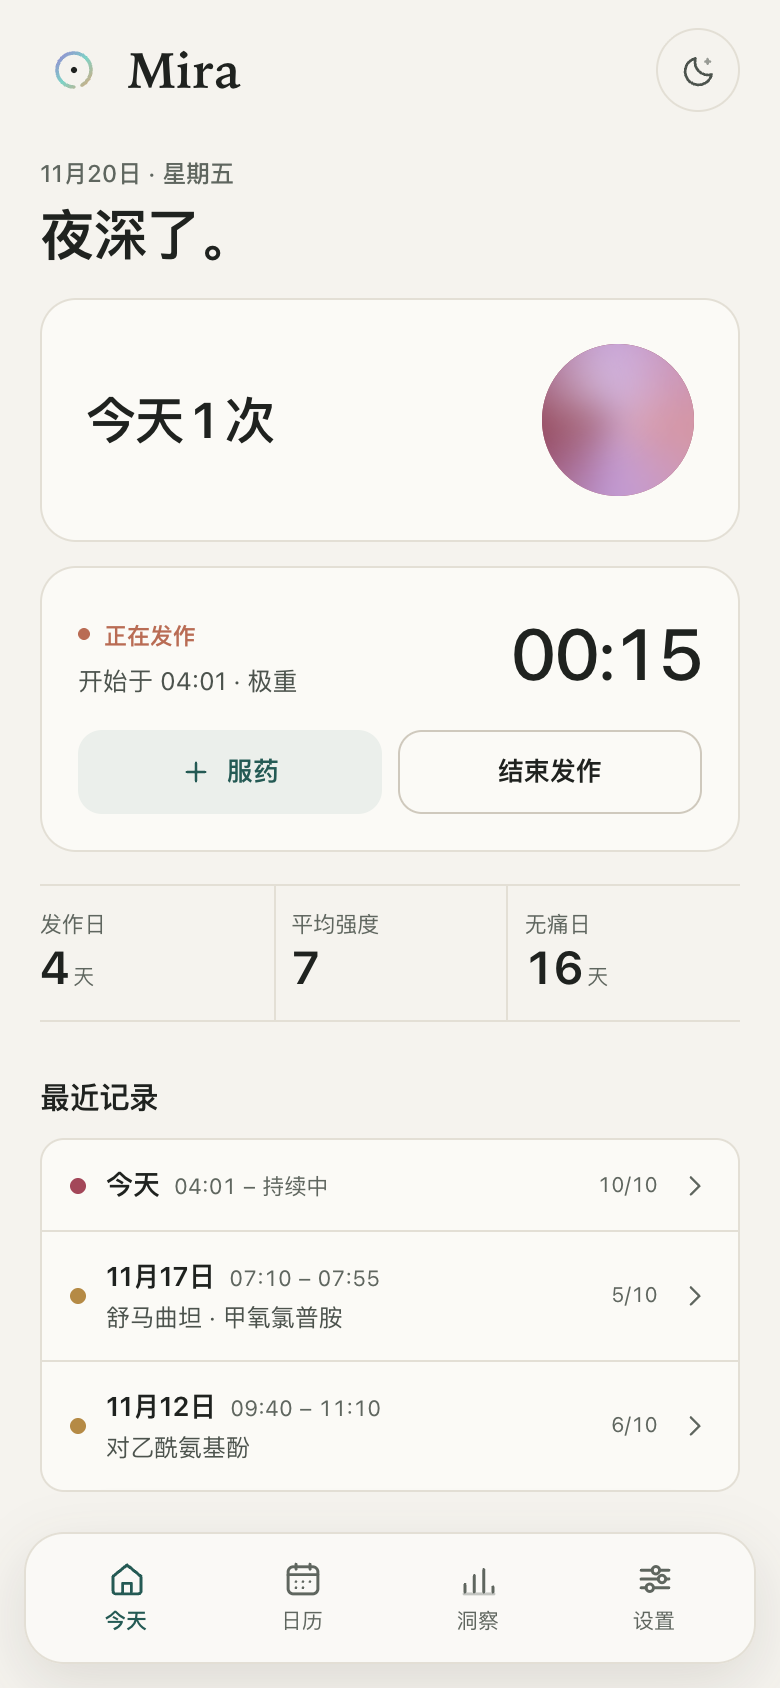
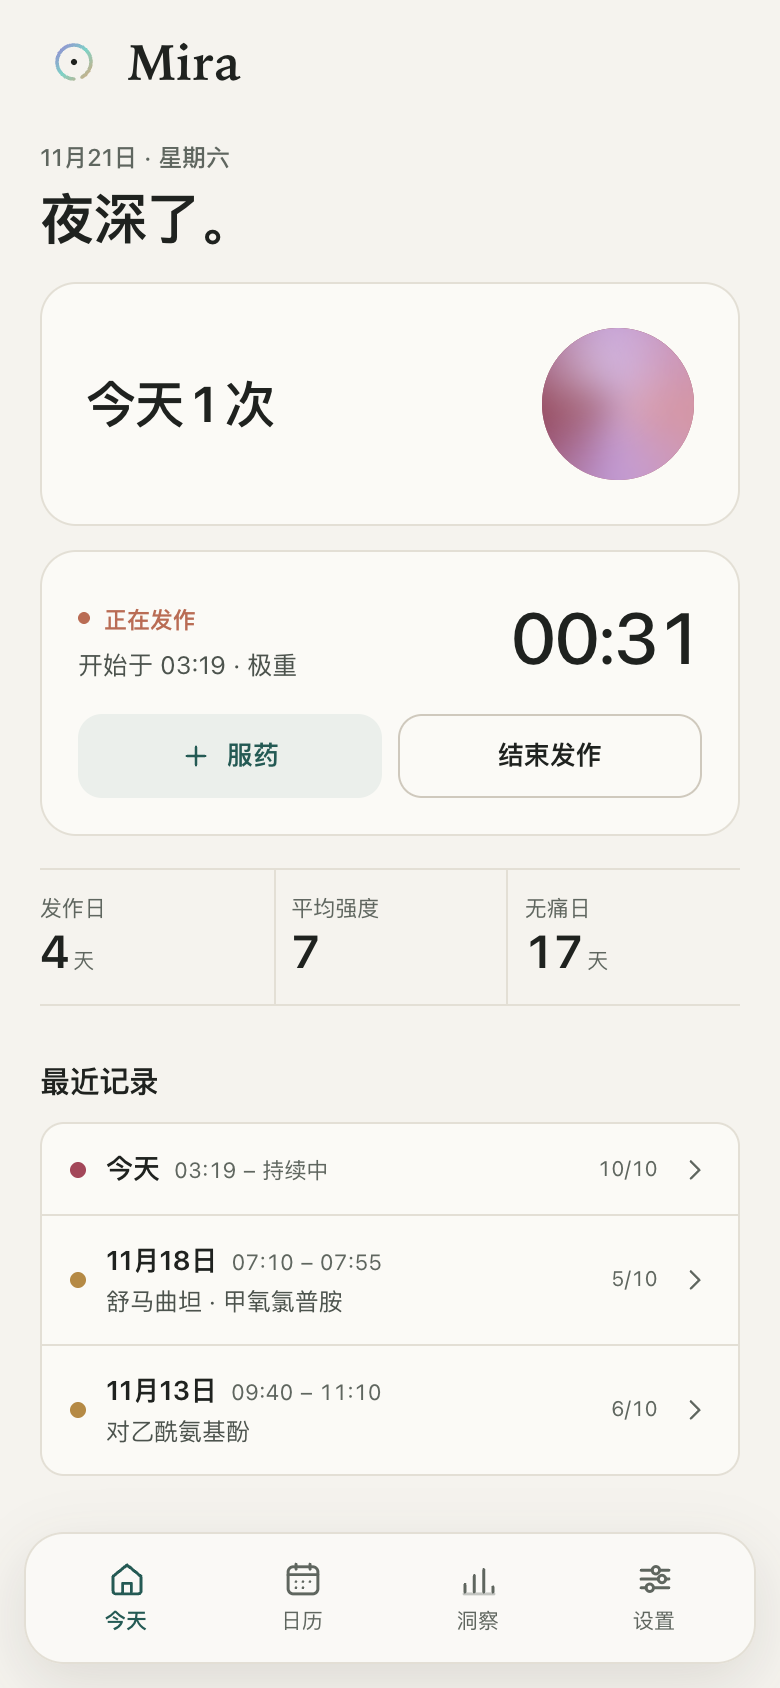
fix: remove the header quiet-mode toggle
- quiet mode now lives only in Settings, avoiding confusion with light/dark theme
- keep the top quiet banner as the way to exit during an attack
- update E2E, accessibility checks, screenshots and docs

diff --git a/src/app.tsx b/src/app.tsx
@@ -1,7 +1,7 @@
 import { useEffect, useMemo, useState } from 'preact/hooks';
 import { CatalogSheet } from './components/CatalogSheet';
 import { EpisodeSheet } from './components/EpisodeSheet';
-import { IconCheck, IconMoon, LogoMark } from './components/Icons';
+import { IconCheck, LogoMark } from './components/Icons';
 import { QuickMedSheet } from './components/QuickMedSheet';
 import { WelcomeSheet } from './components/WelcomeSheet';
 import { BottomNav } from './components/BottomNav';
@@ -275,17 +275,6 @@ export function App() {
             <LogoMark size={26} />
           </span>
           <span class="brand-name">Mira</span>
-        </div>
-        <div class="header-actions">
-          <button
-            class="icon-btn"
-            type="button"
-            aria-pressed={settings.quiet}
-            aria-label={settings.quiet ? t('a11y.quietOff') : t('a11y.quietOn')}
-            onClick={() => updateSettings({ quiet: !settings.quiet })}
-          >
-            <IconMoon size={19} />
-          </button>
         </div>
       </header>
 

diff --git a/docs/design.md b/docs/design.md
@@ -66,7 +66,7 @@ Mira 来自「注视」的意象：看清自己的节律，而不是被头痛推
 
 <p align="center"><img src="screenshots/10-quiet-mode.png" width="260" alt="静息模式" /></p>
 
-- 暖黑底色、关闭动效、放大触控目标；不改变用户的浅色/深色偏好。
+- 从设置中的开关进入，避免与明暗主题快捷入口混淆；暖黑底色、关闭动效、放大触控目标，不改变用户的浅色/深色偏好。
 - 这是产品与主题最贴合的一处：偏头痛发作常伴畏光，界面应该主动退让。
 
 ## 4. 信息架构

diff --git a/README.md b/README.md
@@ -86,7 +86,7 @@ Mira 因此做了三件事：
 
 ### 静息模式
 
-- 一键进入：暖黑低光配色、关闭环境光效与动效、扩大按钮与触控区域。
+- 设置中开启：暖黑低光配色、关闭环境光效与动效、扩大按钮与触控区域。
 - 适合发作中快速记录；再点一次即可退出。
 - 与主题偏好独立，选择不会被覆盖。
 
